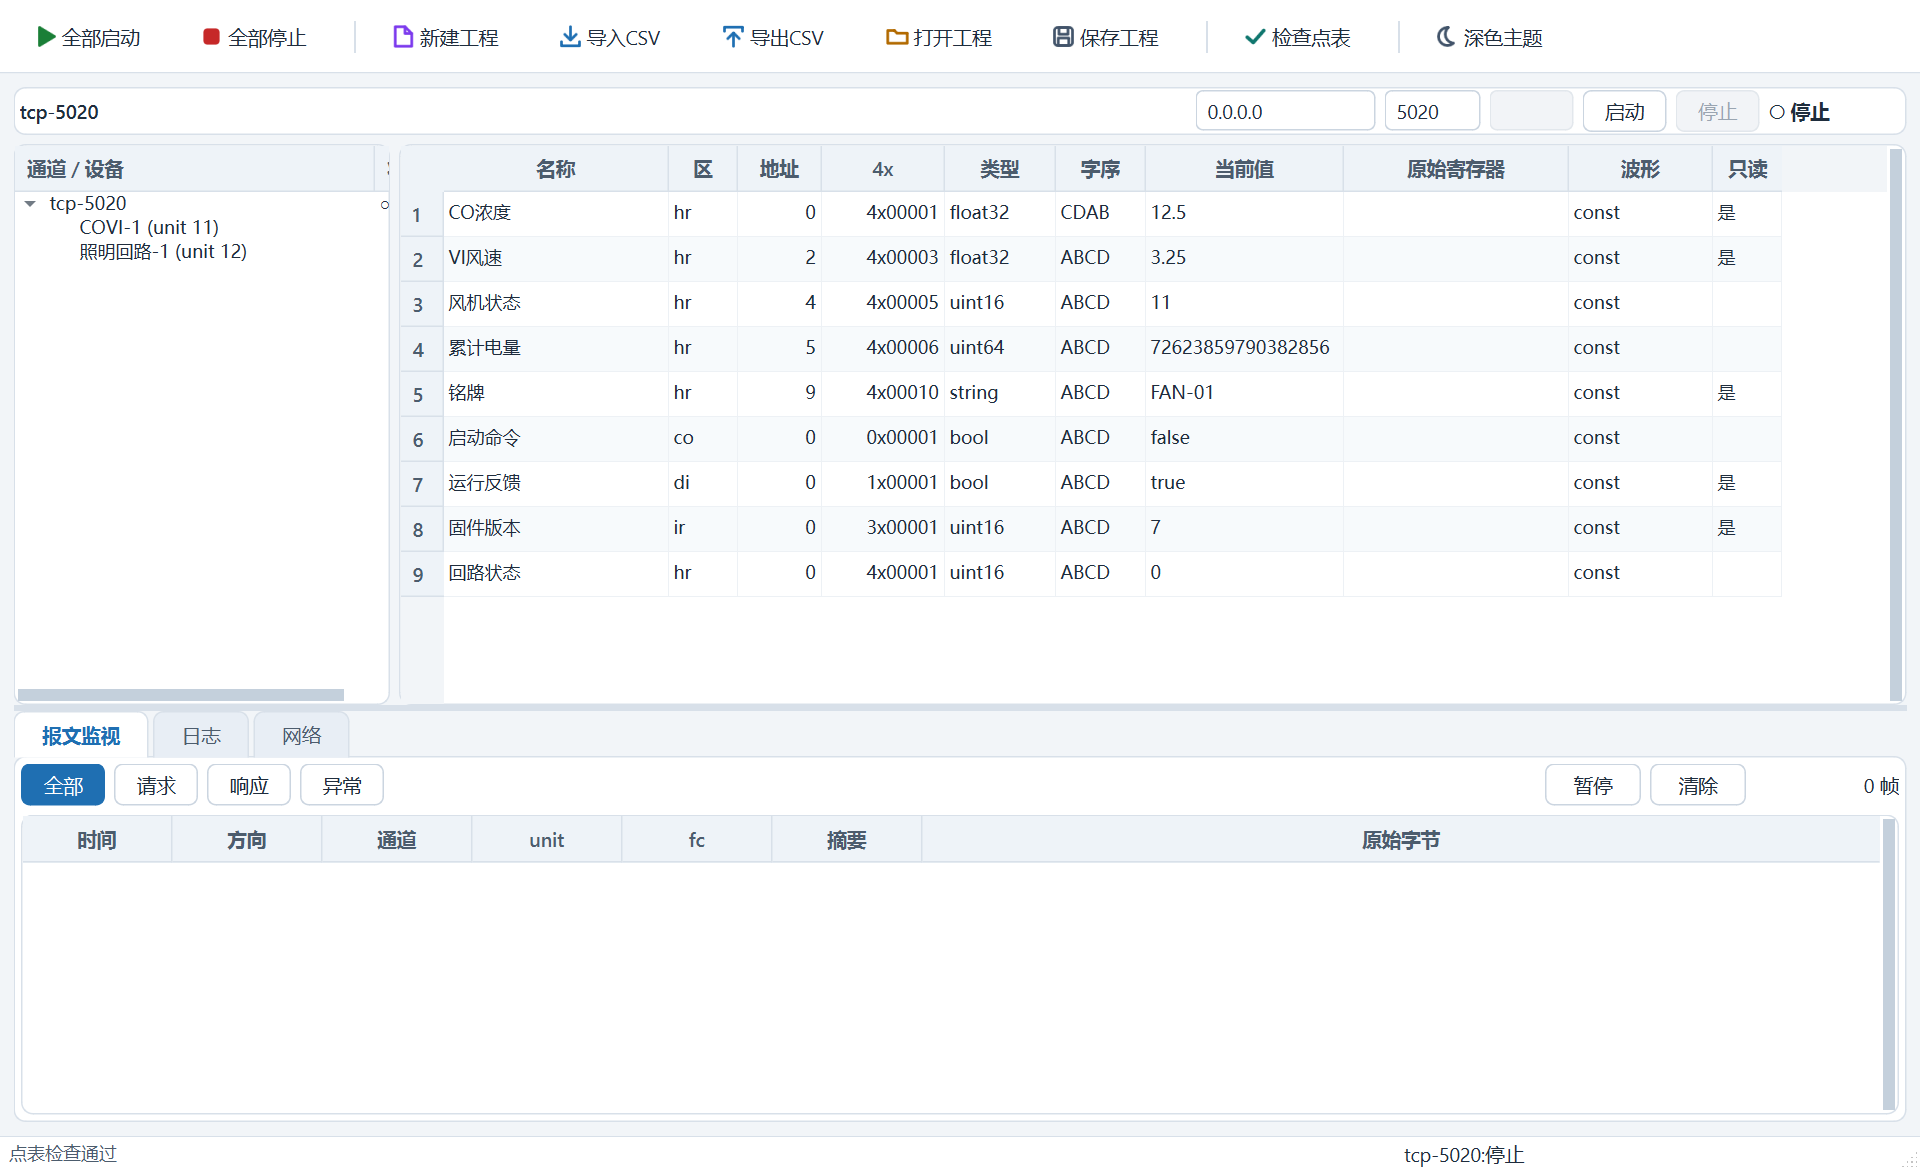
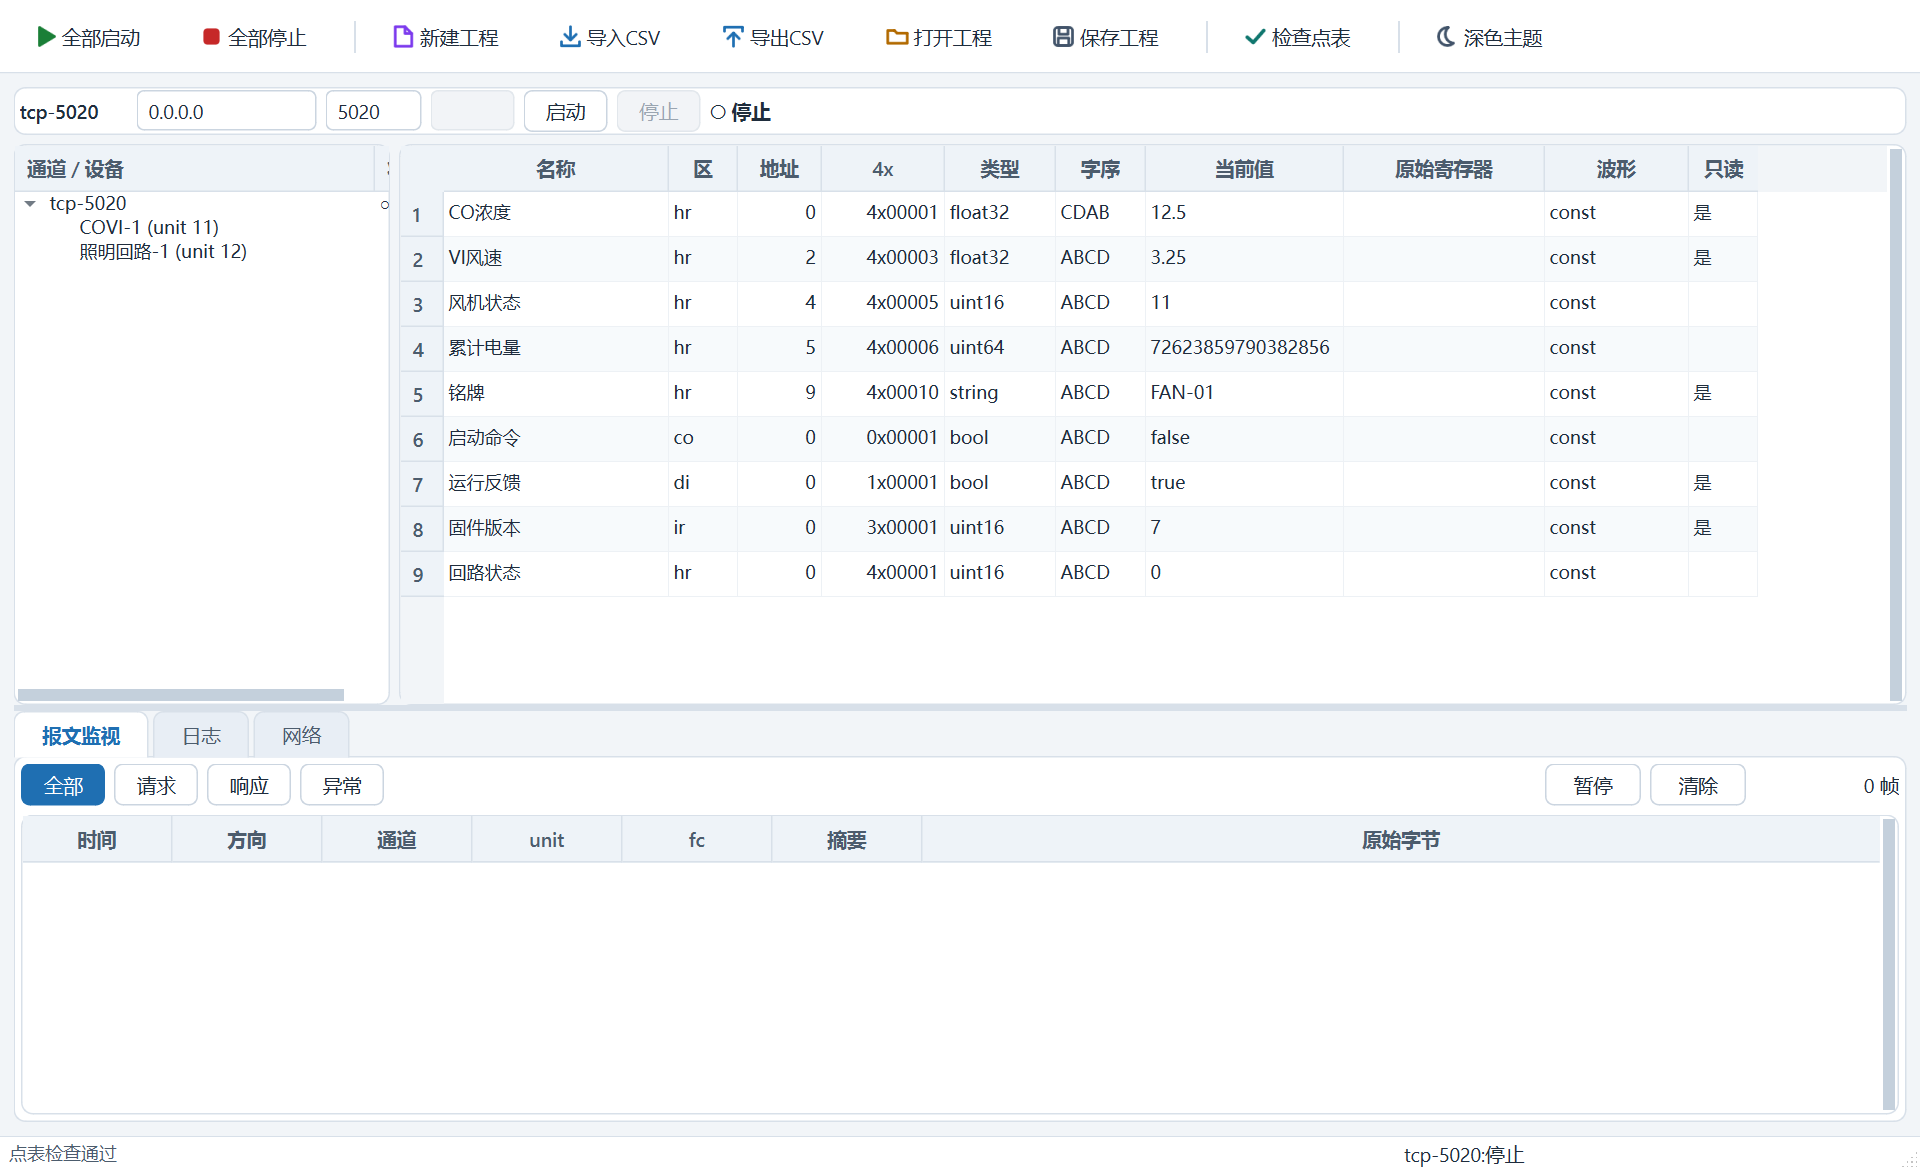
style: 通道行内容左对齐、原始寄存器列宽按实测收紧
按用户口径"全都改"，把我上一轮点出来的三处观感项逐条量着改：

1. **通道行左边那块空白**：行布局没有尾部拉伸列，多出来的宽度全落进第一格"通道名"里，
   整行被摊成"名字贴最左、参数与按钮贴最右"两撮。加一个空的拉伸列（第 7 列），
   行内容左对齐、余量归行尾。用例 `test_the_row_packs_its_widgets_to_the_left` 按几何量
   （名字与第一格挨着、第一格仍在左半边）。
2. **原始寄存器列宽 150 → 134**：最宽的内容是 4 个寄存器的点（`0000 0000 4148 4E28`，
   19 个字符），本机 Microsoft YaHei UI 9pt 下 advance 123 + 单元格 8 = 131——150 是没人
   量过的，虚 19px。新增 `test_the_raw_column_is_sized_for_the_widest_register_string`
   钉前提与字面量（不拿 fontMetrics 现量，理由同"当前值"那条：offscreen 的兜底字体把
   每个字形按 1em 算）。
3. **当前值列宽 132 不动**：量下来最宽的 17 位数字要 128（advance 120 + 8），132 只余 4px，
   已经是最紧的；注释里的数字按实测改写。

截图一并重渲染（14 张，含一张**跑起来**的：原始寄存器那一列填满，最宽那条 19 个字符不截）。
全量 **1338 passed**。

diff --git a/simbench/gui/point_table.py b/simbench/gui/point_table.py
@@ -22,6 +22,7 @@ from ..project.model import S7_TYPES
 from ..engine.session import Row
 
 VALUE_HEADER = "当前值"
+RAW_HEADER = "原始寄存器"
 
 
 @dataclass(frozen=True)
@@ -38,16 +39,23 @@ COLUMNS: tuple[Column, ...] = (
     Column("4x", 82, numeric=True),
     Column("类型", 74),
     Column("字序", 60),
-    # 132 而不是 110：字号从 9pt 提到 10pt 之后，示例点表里那个 17 位的 uint64
-    # （累计电量）在 110px 里会被 Qt 截成 `7262385979038…`——这一列是操作员拿去和点表
-    # 核对的那个数，少一位就没法核。槽位跟着字号走，见 `tests/test_gui_theme.py`。
+    # 132 而不是 110：示例点表里那个 17 位的 uint64（累计电量）在 110px 里会被 Qt 截成
+    # `7262385979038…`——这一列是操作员拿去和点表核对的那个数，少一位就没法核。
+    # 132 是**量出来的**（本机 Microsoft YaHei UI 9pt）：`72623859790382856` 的 advance 是
+    # 120，加单元格左右各 4px 的 margin 是 128，132 留 4px 余量——再瘦就会截。
+    # 见 `tests/test_gui_theme.py` 那条（它钉的是"最宽内容是 17 位 + 列宽 132"这个前提，
+    # 不拿 `fontMetrics()` 现量：offscreen 的兜底字体把每个字形按 1em 算，量出来 221px）。
     Column(VALUE_HEADER, 132),
-    Column("原始寄存器", 150),
+    # 原始寄存器：最宽的内容是**4 个寄存器**的 uint64（`0000 0000 4148 4E28`，19 个字符）
+    # 或 int64/float64，advance 123 + 8 = 131；原来的 150 是没人量过的，虚 19px。
+    # S7 那一列打的是字节（`41 48 00 00`，67px），比这更窄。
+    Column(RAW_HEADER, 134),
     Column("波形", 96),
     Column("只读", 46),
 )
 
 VALUE_COLUMN = next(i for i, c in enumerate(COLUMNS) if c.header == VALUE_HEADER)
+RAW_COLUMN = next(i for i, c in enumerate(COLUMNS) if c.header == RAW_HEADER)
 STALE_ROLE = QtCore.Qt.UserRole + 1
 
 _CONVENTION = {"co": "0x", "di": "1x", "ir": "3x", "hr": "4x"}

diff --git a/tests/test_gui_theme.py b/tests/test_gui_theme.py
@@ -30,7 +30,7 @@ from simbench.gui import main_window as main_window_module
 from simbench.gui import theme
 from simbench.gui.channel_panel import STATUS_LABELS
 from simbench.gui.main_window import MainWindow
-from simbench.gui.point_table import COLUMNS, VALUE_COLUMN
+from simbench.gui.point_table import COLUMNS, RAW_COLUMN, VALUE_COLUMN
 
 ROOT = pathlib.Path(__file__).resolve().parents[1]
 CSV = str(ROOT / "examples" / "covi-tunnel.csv")
@@ -132,6 +132,25 @@ def test_the_value_column_is_sized_for_the_widest_value_it_shows(window):
     assert max(len(value) for value in values) == 17, values
     assert COLUMNS[VALUE_COLUMN].width == 132
     assert window.point_table.columnWidth(VALUE_COLUMN) == 132
+
+
+def test_the_raw_column_is_sized_for_the_widest_register_string(window):
+    """"原始寄存器"那一列按**最宽的内容**给，与"当前值"那一列同一条口径。
+
+    最宽的是 4 个寄存器的点（uint64/int64/float64）：`0000 0000 4148 4E28`，19 个字符。
+    本机（Microsoft YaHei UI 9pt）实测 advance 123 + 单元格左右各 4px = 131，列宽给 134。
+    原来 150 谁也没量过，白占 19px。谁把列宽改回去、或者表里换了个更宽的寄存器串
+    （8 格），这条就红。
+
+    与"当前值"那条同一个写法：只钉**前提与字面量**，不拿 `fontMetrics()` 现量——
+    offscreen 那套兜底字体把每个字形按 1em 算（19 个字符量出来 247px），照它加宽会得到
+    一个部署环境里宽得离谱的列。
+    """
+    assert RAW_COLUMN == 7
+    assert COLUMNS[RAW_COLUMN].header == "原始寄存器"
+    assert len("0000 0000 4148 4E28") == 19
+    assert COLUMNS[RAW_COLUMN].width == 134
+    assert window.point_table.columnWidth(RAW_COLUMN) == 134
 
 
 def test_the_theme_never_overrides_a_state_color():

diff --git a/tests/test_gui_channel_panel.py b/tests/test_gui_channel_panel.py
@@ -119,6 +119,23 @@ def test_rebuild_replaces_the_rows_instead_of_doubling_them(built):
 
 # ---------- 独立启停 ----------
 
+def test_the_row_packs_its_widgets_to_the_left(built):
+    """行内容左对齐：通道名与第一格之间不许留一块空白（多出来的宽度归**行尾**）。
+
+    原来没有尾部拉伸列，宽度全落进第一格"通道名"里——截图里整行被摊成"名字贴最左、
+    参数与按钮贴最右"两撮，中间一大片空。这里按几何量，不靠肉眼：名字与第一格挨着，
+    且第一格仍在面板的左半边。
+    """
+    panel, _session, qapp = built
+    qapp.processEvents()
+    assert panel.rows(), "这条用例要的是'有行可量'"
+    for row in panel.rows():
+        gap = row.host_edit.geometry().left() - row.name_label.geometry().right()
+        assert 0 <= gap <= 16, (row.channel, gap)
+        assert row.host_edit.geometry().left() < panel.width() // 2, (
+            f"{row.channel}: 第一格被推到右半边了，说明宽度还是全落在通道名那一格上")
+
+
 def test_start_is_per_channel(built):
     panel, session, qapp = built
     rows = by_channel(panel)

diff --git a/docs/superpowers/notes/2026-10-13-gui-shots/regenerate.py b/docs/superpowers/notes/2026-10-13-gui-shots/regenerate.py
@@ -11,6 +11,7 @@
 from __future__ import annotations
 
 import pathlib
+import socket
 import sys
 
 HERE = pathlib.Path(__file__).resolve().parent
@@ -77,6 +78,15 @@ def main() -> int:
     dialog.close()
     dialog.deleteLater()
 
+    # 跑起来的状态：原始寄存器那一列要**真数据**才看得出宽度够不够（4 个寄存器的 uint64
+    # 是最宽的一条）。端口用空闲的，不去抢现场那个 5020。
+    session.project.channels[0].port = _free_port()
+    window.use_project(session.project, CSV)
+    window._start_all()
+    shoot(window, "14-main-running.png")
+    window._stop_all()
+    _settle(app)
+
     window.act_theme.setChecked(True)
     window._toggle_theme(True)
     shoot(window, "12-main-dark.png")
@@ -88,6 +98,13 @@ def main() -> int:
 
     session.shutdown()
     return 0
+
+
+def _free_port() -> int:
+    """挑一个空闲端口：截图脚本不许去抢点表里写死的那个 5020（现场可能真在用）。"""
+    with socket.socket() as probe:
+        probe.bind(("127.0.0.1", 0))
+        return probe.getsockname()[1]
 
 
 def _settle(app) -> None:

diff --git a/simbench/gui/channel_panel.py b/simbench/gui/channel_panel.py
@@ -71,6 +71,10 @@ class ChannelPanel(QtWidgets.QWidget):
         theme.make_card(self)
         self._grid = QtWidgets.QGridLayout(self)
         self._grid.setContentsMargins(4, 2, 4, 2)
+        # 尾部留一个空的**拉伸列**（第 7 列，前面只用到第 6 列）。不给它的话，多出来的
+        # 宽度会全部落进第一格"通道名"里，整行被摊成"名字贴最左、参数与按钮贴最右"两撮，
+        # 中间一大片空白（截图照出来的）。有了它，行内容左对齐、余量在行尾。
+        self._grid.setColumnStretch(7, 1)
         self.last_error = ""
 
     # ---------- 结构 ----------

diff --git a/docs/superpowers/notes/2026-10-13-gui-shots/README.md b/docs/superpowers/notes/2026-10-13-gui-shots/README.md
@@ -22,6 +22,7 @@
 | `11-add-device.png` | 添加设备（名字与 unit 自动避开已有的） |
 | `12-main-dark.png` | 深色主题（工具栏图标按新模式重画） |
 | `13-net-panel.png` | 网络页（只读那几条命令的现状；这台机器的网卡清单） |
+| `14-main-running.png` | 通道**跑起来**的样子：原始寄存器那一列填满了（最宽的是累计电量那条 `0102 0304 0506 0708`），通道行左对齐 |
 
 重新生成：`regenerate.py`（**别**设 `QT_QPA_PLATFORM=offscreen`，那套兜底字体的字距不是
 现场的；脚本会在有桌面的机器上真开一下窗口、抓完就关）。
